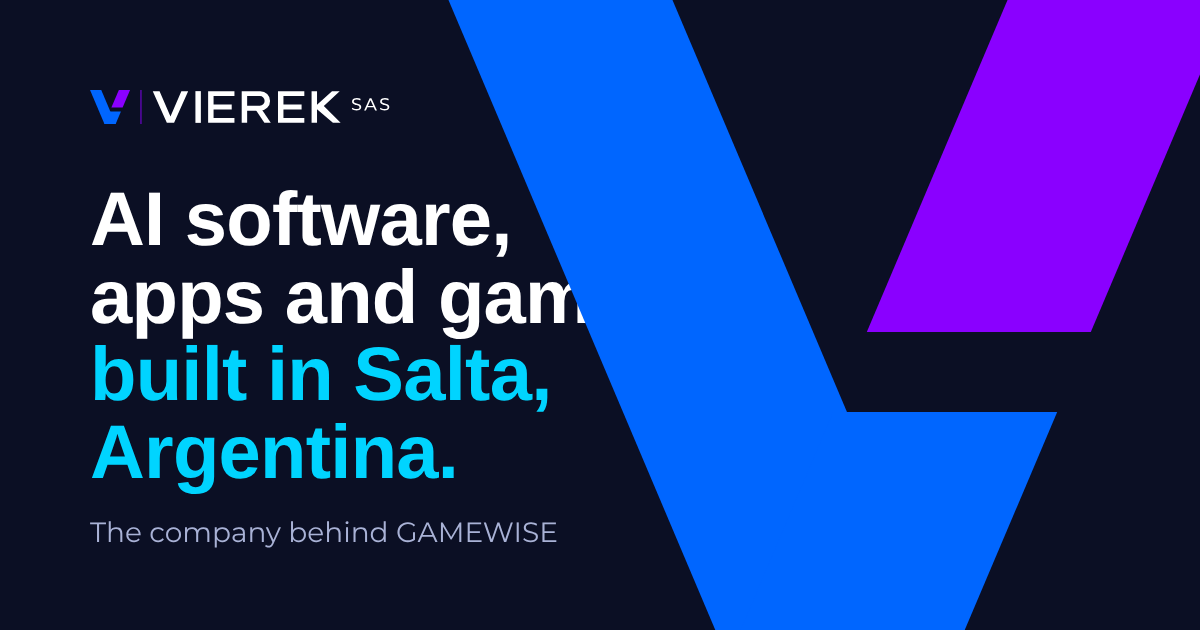
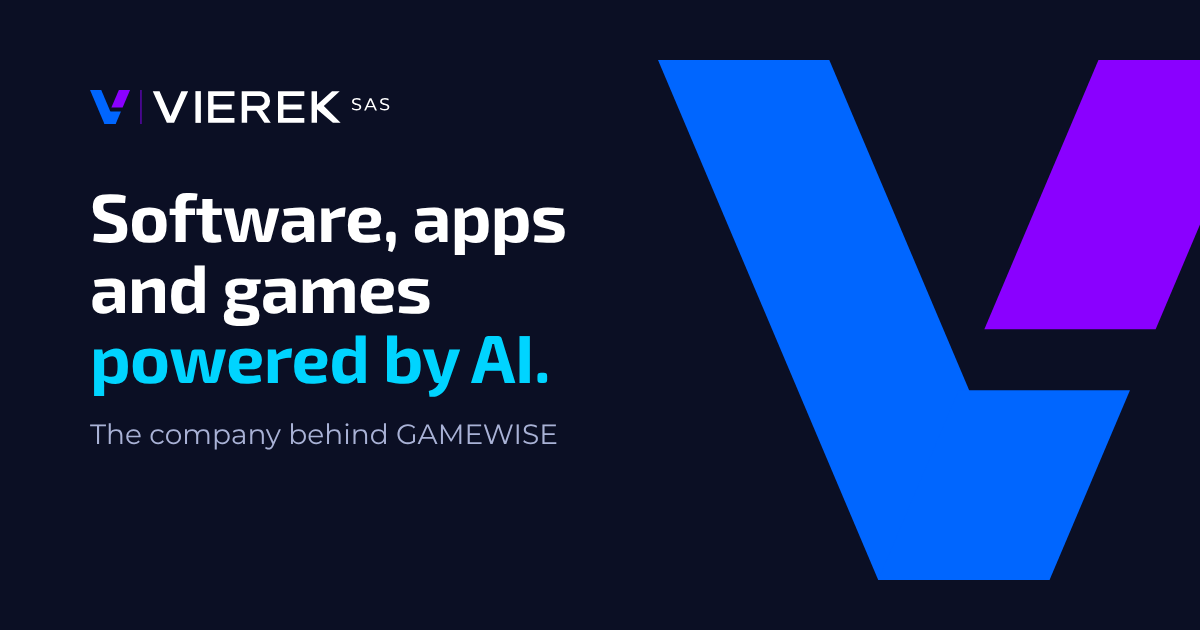
Título sin "hechos en Salta" e imágenes para redes corregidas
- Título: "Software, apps y videojuegos con IA." (en inglés, "powered by AI").
- Sin la referencia a Salta en el título, la bajada, la descripción y la
  franja de datos del inicio (queda solo en el pie).
- Imágenes para redes regeneradas con la tipografía Exo 2 y la V a un costado.
- Botón primario: el texto se mantiene blanco al pasar el mouse.

Claude-Session: https://claude.ai/code/session_01UUn8T4VzaUgHWDF8BJSxfy

diff --git a/public/styles.css b/public/styles.css
@@ -69,7 +69,7 @@ h3 { font-size: 22px; line-height: 1.25; }
 }
 .btn:hover { color: var(--ink); }
 .btn--primary { background: var(--blue); }
-.btn--primary:hover { background: var(--blue-hover); }
+.btn--primary:hover { background: var(--blue-hover); color: var(--ink); }
 .btn--secondary { background: var(--card); border-color: var(--line-2); }
 .btn--secondary:hover { border-color: var(--ink-3); }
 .btn--ghost { border-color: var(--line-2); }

diff --git a/src/template.html b/src/template.html
@@ -68,7 +68,6 @@
           <li><svg aria-hidden="true"><use href="#i-gamepad"/></svg>{{fact1}}</li>
           <li><svg aria-hidden="true"><use href="#i-trophy"/></svg>{{fact2}}</li>
           <li><svg aria-hidden="true"><use href="#i-users"/></svg>{{fact3}}</li>
-          <li><svg aria-hidden="true"><use href="#i-pin"/></svg>{{fact4}}</li>
         </ul>
       </div>
     </section>
